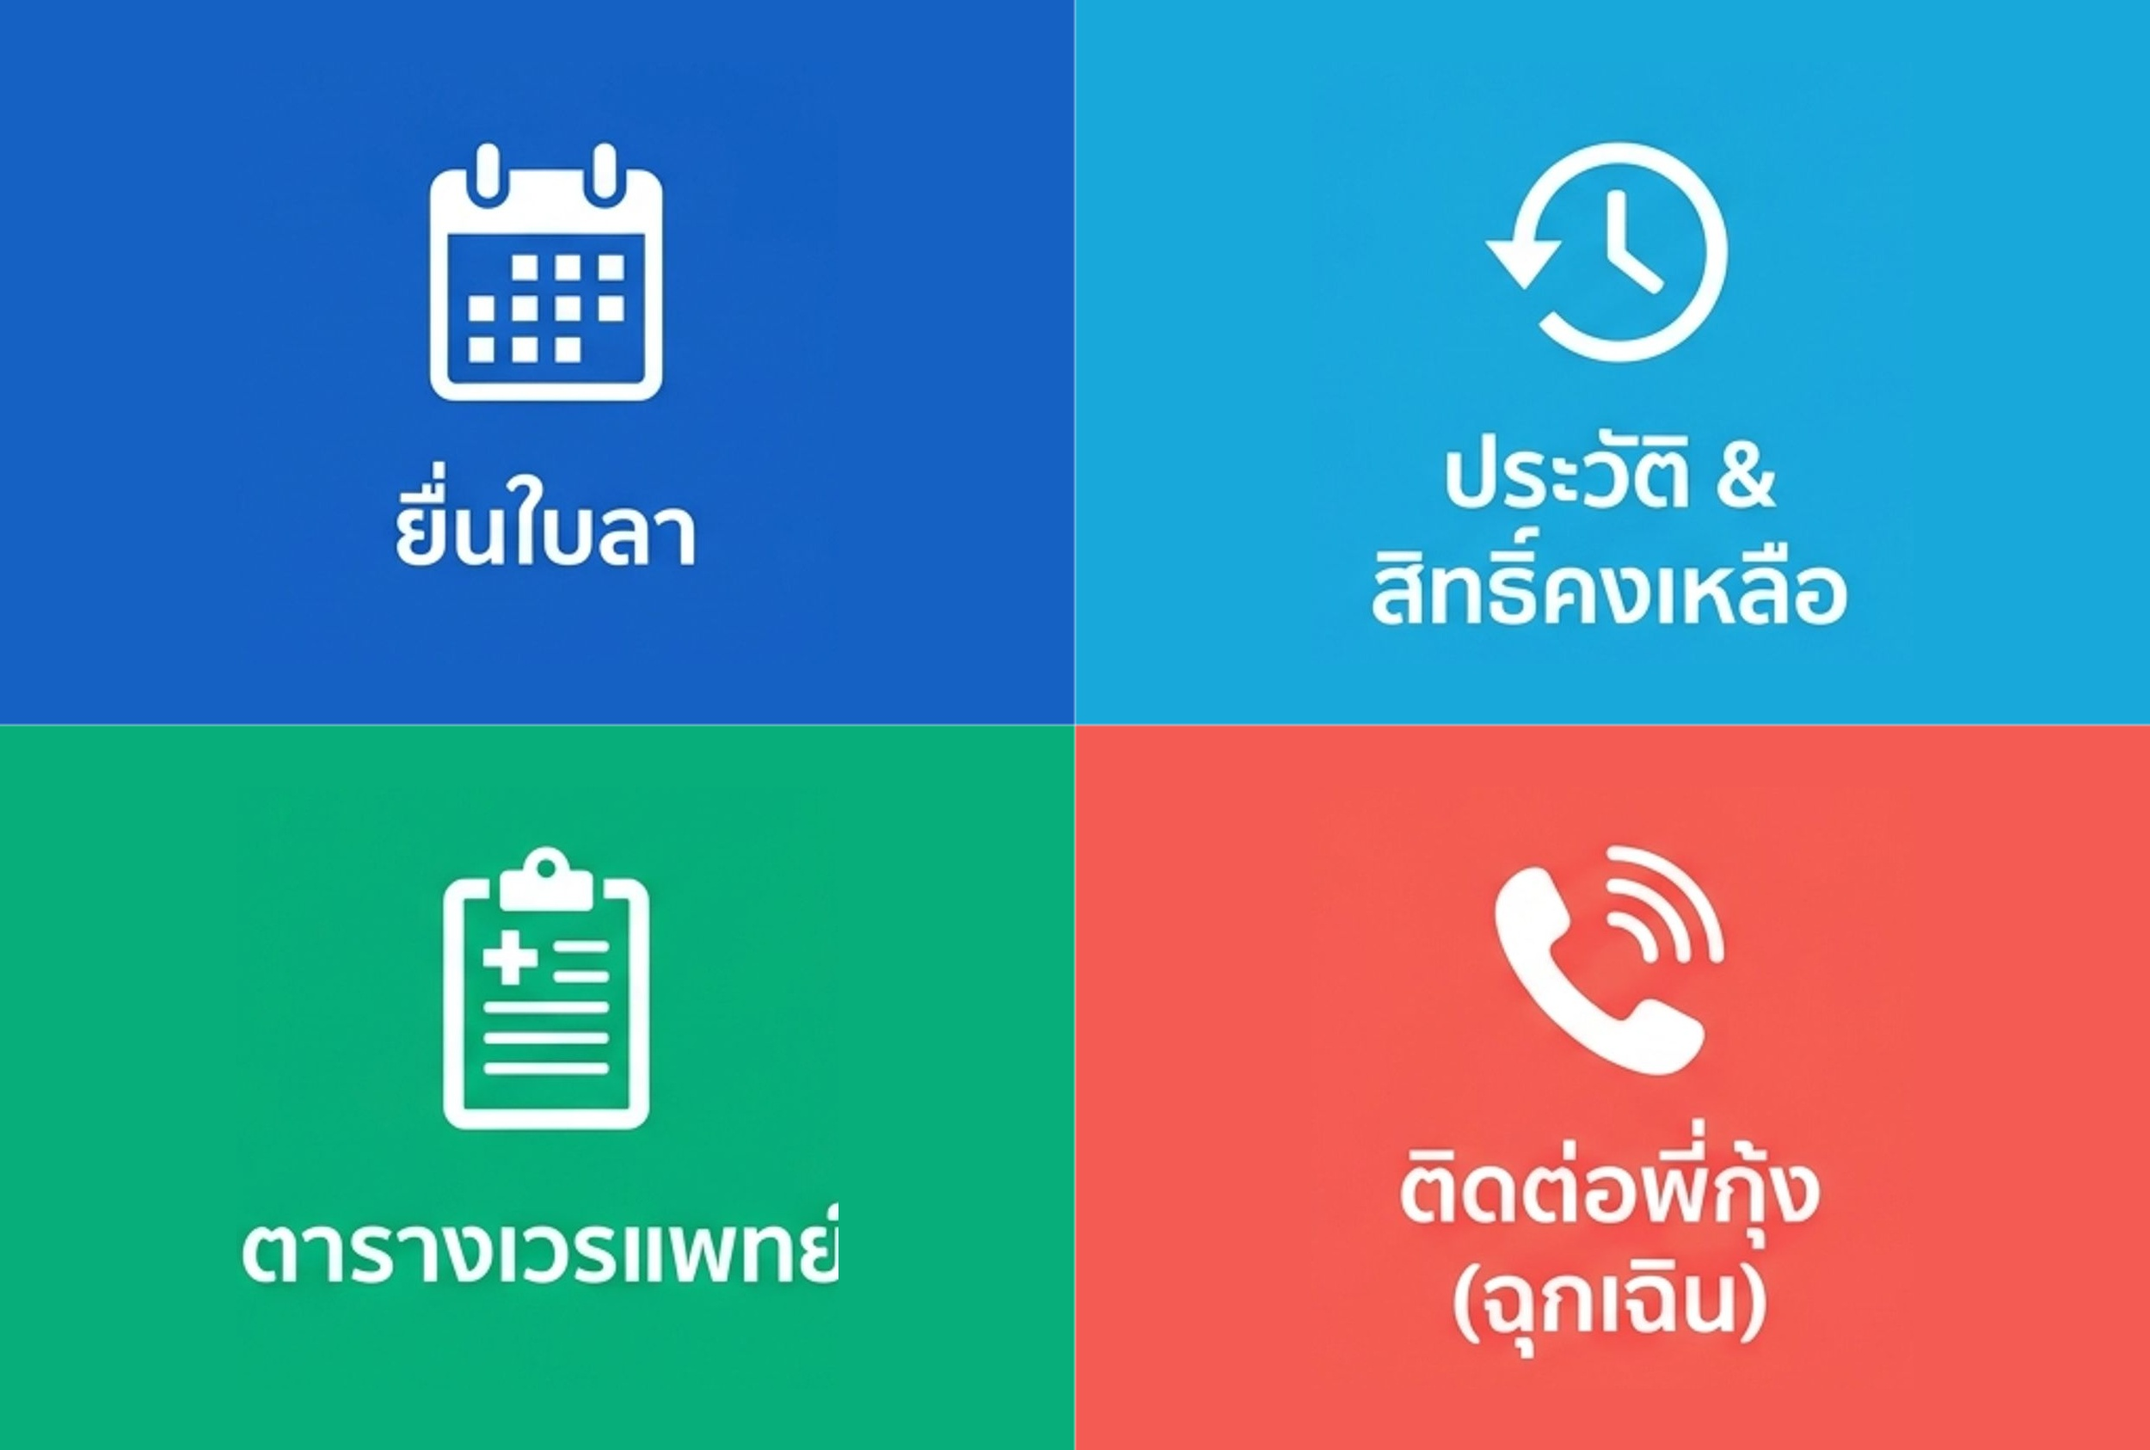
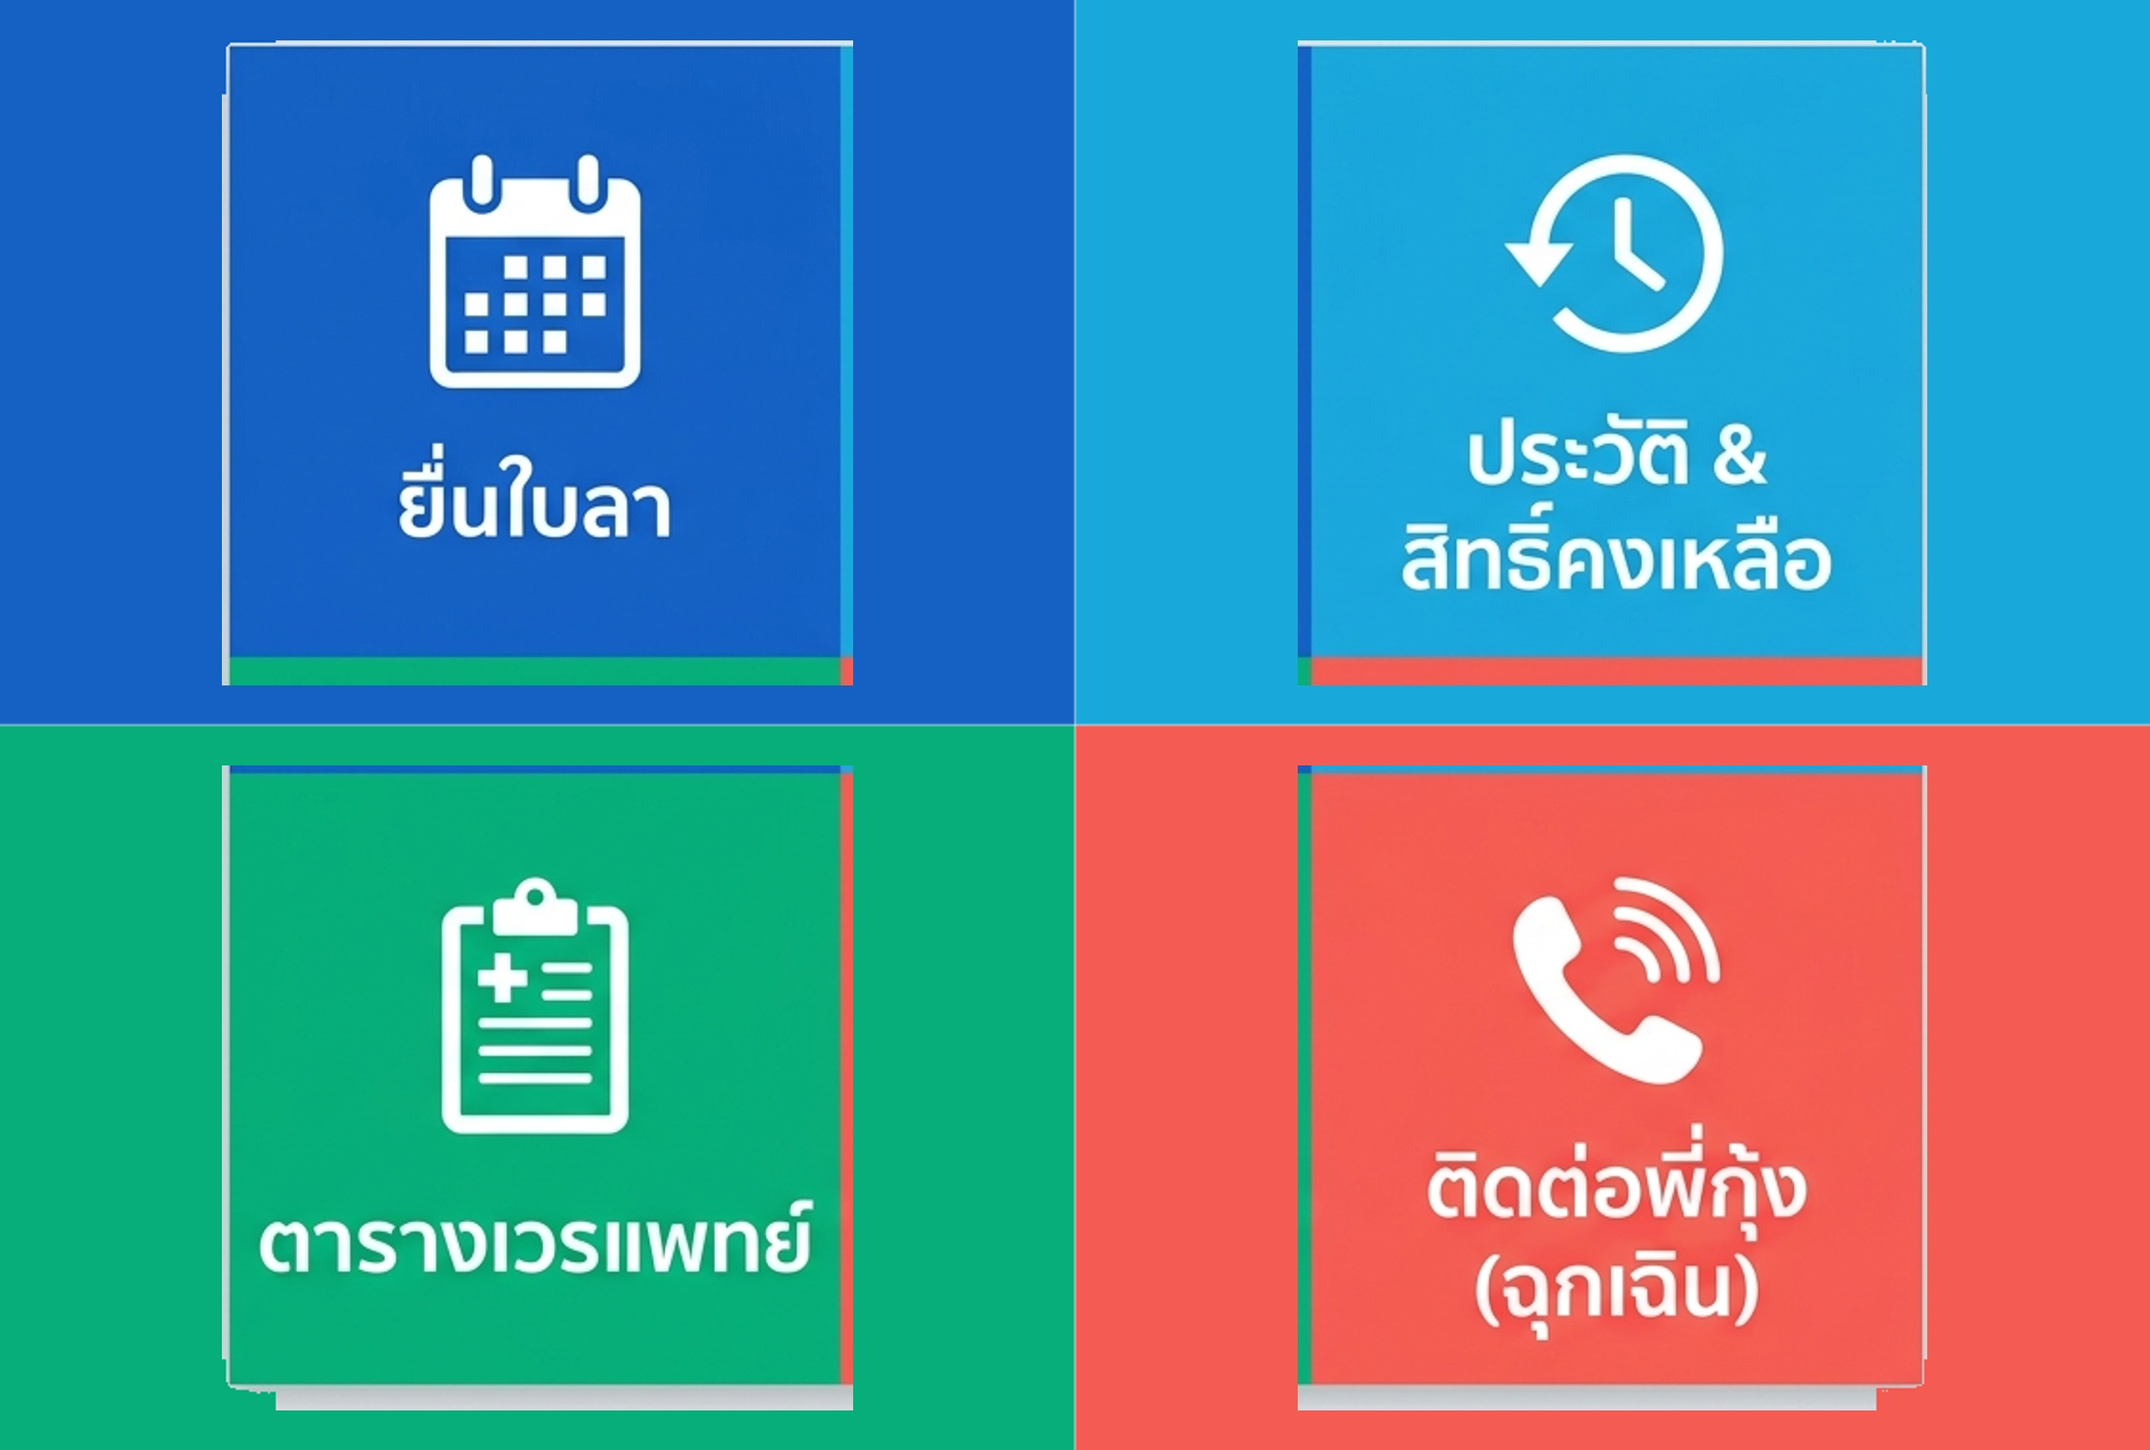
fix(liff): fix routing bounce to leave page and restore truncated 'ย์' in shift menu

diff --git a/scripts/build_full_bleed_richmenu.js b/scripts/build_full_bleed_richmenu.js
@@ -14,59 +14,76 @@ async function buildFullBleedOldStyle() {
   const HALF_W = 1250;
   const HALF_H = 843;
 
-  // In each card in src, inner content is within ~20px inset from edges:
-  // Q1: left: 325, top: 121, width: 286, height: 288
-  // Q2: left: 651, top: 121, width: 285, height: 288
-  // Q3: left: 325, top: 449, width: 286, height: 288
-  // Q4: left: 651, top: 449, width: 285, height: 288
+  // Exact coordinates of the 4 full cards (preserving all text, including 'ย์' in ตารางเวรแพทย์):
+  // Q1 Blue: 308, 101, 331, 338
+  // Q2 Cyan: 625, 101, 330, 338
+  // Q3 Green: 308, 420, 331, 338
+  // Q4 Red: 625, 420, 330, 338
 
-  // We resize the content to 700x700 with Lanczos3
-  const targetSize = 700;
+  async function extractAndClean(rect, bgColor, outerCorner) {
+    const { data, info } = await sharp(src)
+      .extract(rect)
+      .raw()
+      .toBuffer({ resolveWithObject: true });
 
-  const q1Content = await sharp(src)
-    .extract({ left: 325, top: 121, width: 286, height: 288 })
-    .resize(targetSize, targetSize, { kernel: 'lanczos3' })
-    .toBuffer();
+    // Clean outer corners of gray pixels without touching any text or icons
+    for (let y = 0; y < info.height; y++) {
+      for (let x = 0; x < info.width; x++) {
+        const isNearOuterCorner = 
+          (outerCorner === 'top-left' && x < 28 && y < 28) ||
+          (outerCorner === 'top-right' && x > info.width - 28 && y < 28) ||
+          (outerCorner === 'bottom-left' && x < 28 && y > info.height - 28) ||
+          (outerCorner === 'bottom-right' && x > info.width - 28 && y > info.height - 28);
 
-  const q2Content = await sharp(src)
-    .extract({ left: 651, top: 121, width: 285, height: 288 })
-    .resize(targetSize, targetSize, { kernel: 'lanczos3' })
-    .toBuffer();
+        if (isNearOuterCorner) {
+          const idx = (y * info.width + x) * 3;
+          const r = data[idx], g = data[idx + 1], b = data[idx + 2];
+          const isGray = (Math.abs(r - g) < 22 && Math.abs(g - b) < 22 && Math.abs(r - b) < 22 && r > 190);
+          if (isGray) {
+            data[idx] = bgColor.r;
+            data[idx + 1] = bgColor.g;
+            data[idx + 2] = bgColor.b;
+          }
+        }
+      }
+    }
 
-  const q3Content = await sharp(src)
-    .extract({ left: 325, top: 449, width: 286, height: 288 })
-    .resize(targetSize, targetSize, { kernel: 'lanczos3' })
-    .toBuffer();
+    // Resize cleanly to fit proportionally in 1250 x 843
+    // Target height ~740px (width will be ~725px), giving generous padding and 0 cutoff
+    return await sharp(data, { raw: info })
+      .resize({ height: 750, fit: 'contain', kernel: 'lanczos3' })
+      .toBuffer({ resolveWithObject: true });
+  }
 
-  const q4Content = await sharp(src)
-    .extract({ left: 651, top: 449, width: 285, height: 288 })
-    .resize(targetSize, targetSize, { kernel: 'lanczos3' })
-    .toBuffer();
+  const q1 = await extractAndClean({ left: 308, top: 101, width: 331, height: 338 }, { r: 21, g: 97, b: 195 }, 'top-left');
+  const q2 = await extractAndClean({ left: 625, top: 101, width: 330, height: 338 }, { r: 24, g: 168, b: 218 }, 'top-right');
+  const q3 = await extractAndClean({ left: 308, top: 420, width: 331, height: 338 }, { r: 7, g: 174, b: 122 }, 'bottom-left');
+  const q4 = await extractAndClean({ left: 625, top: 420, width: 330, height: 338 }, { r: 244, g: 91, b: 83 }, 'bottom-right');
 
   // Create solid background quadrants matching the exact RGB colors
   const q1Bg = await sharp({ create: { width: HALF_W, height: HALF_H, channels: 3, background: { r: 21, g: 97, b: 195 } } })
-    .composite([{ input: q1Content, top: Math.round((HALF_H - targetSize) / 2), left: Math.round((HALF_W - targetSize) / 2) }])
+    .composite([{ input: q1.data, raw: q1.info, top: Math.round((HALF_H - q1.info.height) / 2), left: Math.round((HALF_W - q1.info.width) / 2) }])
     .png()
     .toBuffer();
 
   const q2Bg = await sharp({ create: { width: HALF_W, height: HALF_H, channels: 3, background: { r: 24, g: 168, b: 218 } } })
-    .composite([{ input: q2Content, top: Math.round((HALF_H - targetSize) / 2), left: Math.round((HALF_W - targetSize) / 2) }])
+    .composite([{ input: q2.data, raw: q2.info, top: Math.round((HALF_H - q2.info.height) / 2), left: Math.round((HALF_W - q2.info.width) / 2) }])
     .png()
     .toBuffer();
 
   const q3Bg = await sharp({ create: { width: HALF_W, height: HALF_H, channels: 3, background: { r: 7, g: 174, b: 122 } } })
-    .composite([{ input: q3Content, top: Math.round((HALF_H - targetSize) / 2), left: Math.round((HALF_W - targetSize) / 2) }])
+    .composite([{ input: q3.data, raw: q3.info, top: Math.round((HALF_H - q3.info.height) / 2), left: Math.round((HALF_W - q3.info.width) / 2) }])
     .png()
     .toBuffer();
 
   const q4Bg = await sharp({ create: { width: HALF_W, height: HALF_H, channels: 3, background: { r: 244, g: 91, b: 83 } } })
-    .composite([{ input: q4Content, top: Math.round((HALF_H - targetSize) / 2), left: Math.round((HALF_W - targetSize) / 2) }])
+    .composite([{ input: q4.data, raw: q4.info, top: Math.round((HALF_H - q4.info.height) / 2), left: Math.round((HALF_W - q4.info.width) / 2) }])
     .png()
     .toBuffer();
 
   const dividerSvg = `<svg width="2500" height="1686" xmlns="http://www.w3.org/2000/svg">
-    <line x1="1250" y1="0" x2="1250" y2="1686" stroke="white" stroke-width="3" stroke-opacity="0.3" />
-    <line x1="0" y1="843" x2="2500" y2="843" stroke="white" stroke-width="3" stroke-opacity="0.3" />
+    <line x1="1250" y1="0" x2="1250" y2="1686" stroke="white" stroke-width="3" stroke-opacity="0.35" />
+    <line x1="0" y1="843" x2="2500" y2="843" stroke="white" stroke-width="3" stroke-opacity="0.35" />
   </svg>`;
 
   // Master Composite
@@ -82,7 +99,7 @@ async function buildFullBleedOldStyle() {
     .jpeg({ quality: 95 })
     .toFile(outputPath);
 
-  console.log(`✅ Successfully generated full-bleed rich menu with old aesthetic: ${outputPath}`);
+  console.log(`✅ Successfully generated full-bleed rich menu with old aesthetic (Full text & intact 'ย์'): ${outputPath}`);
 }
 
 buildFullBleedOldStyle().catch(console.error);

diff --git a/scripts/generate_cover_image.js b/scripts/generate_cover_image.js
@@ -1,0 +1,110 @@
+import sharp from 'sharp';
+import fs from 'fs';
+import path from 'path';
+import { fileURLToPath } from 'url';
+
+const __filename = fileURLToPath(import.meta.url);
+const __dirname = path.dirname(__filename);
+const rootDir = path.join(__dirname, '..');
+
+const WIDTH = 1200;
+const HEIGHT = 750;
+
+async function generateCover() {
+  console.log(`🎨 Rendering Official BSI LINE Profile Cover (${WIDTH}x${HEIGHT}px)...`);
+  const destPath = path.join(rootDir, 'public', 'bsi_cover.png');
+  const svgPath = path.join(rootDir, 'public', 'official_bsi_logo.svg');
+
+  // 1. Render official SVG logo at width 420px
+  const svgBuffer = fs.readFileSync(svgPath);
+  const logoPng = await sharp(svgBuffer)
+    .resize(420)
+    .png()
+    .toBuffer();
+
+  const logoMeta = await sharp(logoPng).metadata();
+
+  // 2. Base SVG with Hospital Gradient, Medical Cross patterns, and Corporate Aesthetics
+  const bgSvg = `
+  <svg width="${WIDTH}" height="${HEIGHT}" viewBox="0 0 ${WIDTH} ${HEIGHT}" xmlns="http://www.w3.org/2000/svg">
+    <defs>
+      <linearGradient id="bg-grad" x1="0%" y1="0%" x2="100%" y2="100%">
+        <stop offset="0%" stop-color="#001845" />
+        <stop offset="50%" stop-color="#002d74" />
+        <stop offset="100%" stop-color="#004b93" />
+      </linearGradient>
+
+      <linearGradient id="accent-grad" x1="0%" y1="0%" x2="100%" y2="0%">
+        <stop offset="0%" stop-color="#b12028" />
+        <stop offset="100%" stop-color="#ef4444" />
+      </linearGradient>
+
+      <pattern id="grid" width="40" height="40" patternUnits="userSpaceOnUse">
+        <path d="M 40 0 L 0 0 0 40" fill="none" stroke="white" stroke-width="0.75" stroke-opacity="0.05"/>
+      </pattern>
+
+      <filter id="card-shadow" x="-10%" y="-10%" width="120%" height="120%">
+        <feDropShadow dx="0" dy="16" stdDeviation="24" flood-color="#000" flood-opacity="0.25" />
+      </filter>
+    </defs>
+
+    <!-- Background Gradient -->
+    <rect width="${WIDTH}" height="${HEIGHT}" fill="url(#bg-grad)" />
+    <!-- Grid Overlay -->
+    <rect width="${WIDTH}" height="${HEIGHT}" fill="url(#grid)" />
+
+    <!-- Abstract Medical Glow Rings -->
+    <circle cx="1100" cy="100" r="350" fill="none" stroke="#38bdf8" stroke-width="1.5" stroke-opacity="0.12" />
+    <circle cx="1100" cy="100" r="220" fill="none" stroke="#38bdf8" stroke-width="1" stroke-opacity="0.15" />
+    <circle cx="100" cy="650" r="300" fill="none" stroke="#ffffff" stroke-width="1.5" stroke-opacity="0.06" />
+
+    <!-- Accent Color Stripe at Top -->
+    <rect x="0" y="0" width="${WIDTH}" height="6" fill="url(#accent-grad)" />
+
+    <!-- Center Card Base for Logo -->
+    <g transform="translate(600, 290)" filter="url(#card-shadow)">
+      <rect x="-260" y="-100" width="520" height="200" rx="24" fill="#ffffff" stroke="#e2e8f0" stroke-width="2" />
+    </g>
+
+    <!-- Typography: Title & Subtitle below card -->
+    <text x="600" y="470" text-anchor="middle" font-family="'Sarabun', 'Arial', sans-serif" font-size="34" font-weight="bold" fill="#ffffff" letter-spacing="1">
+      ระบบบริหารการลาแพทย์ (Doctor Leave System)
+    </text>
+    <text x="600" y="520" text-anchor="middle" font-family="'Sarabun', 'Noto Sans Thai', sans-serif" font-size="22" font-weight="500" fill="#93c5fd" letter-spacing="0.5">
+      โรงพยาบาลกรุงเทพศิริโรจน์ • Bangkok Hospital Siriroj
+    </text>
+
+    <!-- Bottom Badges -->
+    <g transform="translate(600, 590)">
+      <rect x="-210" y="-20" width="420" height="40" rx="20" fill="#ffffff" fill-opacity="0.1" stroke="#ffffff" stroke-width="1" stroke-opacity="0.2" />
+      <text x="0" y="7" text-anchor="middle" font-family="'Sarabun', 'Arial', sans-serif" font-size="16" font-weight="600" fill="#e0f2fe" letter-spacing="1.5">
+        BDMS NETWORK • PHUKET, THAILAND
+      </text>
+    </g>
+  </svg>
+  `;
+
+  // 3. Composite everything cleanly
+  await sharp({
+    create: {
+      width: WIDTH,
+      height: HEIGHT,
+      channels: 4,
+      background: { r: 0, g: 45, b: 116, alpha: 1 }
+    }
+  })
+  .composite([
+    { input: Buffer.from(bgSvg), left: 0, top: 0 },
+    {
+      input: logoPng,
+      left: Math.round((WIDTH - logoMeta.width) / 2),
+      top: 290 - Math.round(logoMeta.height / 2)
+    }
+  ])
+  .png()
+  .toFile(destPath);
+
+  console.log(`✅ Cover image successfully generated at: ${destPath}`);
+}
+
+generateCover().catch(console.error);

diff --git a/src/App.jsx b/src/App.jsx
@@ -1,5 +1,5 @@
 import React from 'react';
-import { BrowserRouter, Routes, Route, Navigate } from 'react-router-dom';
+import { BrowserRouter, Routes, Route, Navigate, useNavigate, useLocation } from 'react-router-dom';
 import { AuthProvider, useAuth } from './context/AuthContext';
 import Navbar from './components/Navbar';
 import DoctorLiffPage from './pages/DoctorLiffPage';
@@ -14,6 +14,36 @@ import AdminMasterDataPage from './pages/AdminMasterDataPage';
 import AdminShiftsPage from './pages/AdminShiftsPage';
 import ProtectedRoute from './components/ProtectedRoute';
 import OnboardingPage from './pages/OnboardingPage';
+
+// Intercepts LINE LIFF subpath/query routing (?liff.state=... or ?route=...)
+function LiffRedirectHandler() {
+  const navigate = useNavigate();
+  const location = useLocation();
+
+  useEffect(() => {
+    try {
+      const searchParams = new URLSearchParams(window.location.search);
+      const liffState = searchParams.get('liff.state');
+      const routeParam = searchParams.get('route') || searchParams.get('path');
+      
+      let targetPath = null;
+      if (liffState) {
+        targetPath = decodeURIComponent(liffState);
+      } else if (routeParam) {
+        targetPath = decodeURIComponent(routeParam);
+      }
+
+      if (targetPath && targetPath !== location.pathname) {
+        console.log(`[LIFF Navigation] Redirecting to target path: ${targetPath}`);
+        navigate(targetPath, { replace: true });
+      }
+    } catch (e) {
+      console.warn('[LIFF Navigation Error]', e);
+    }
+  }, [location.pathname, navigate]);
+
+  return null;
+}
 
 export default function App() {
   return (
@@ -32,17 +62,18 @@ function AppContent() {
 
   return (
       <BrowserRouter>
+        <LiffRedirectHandler />
         <div className="min-h-screen flex flex-col bg-slate-100">
           <Navbar />
           <main className="flex-1 pb-12">
             <Routes>
               <Route path="/" element={
-                <ProtectedRoute allowedRoles={['DOCTOR', 'MEDICAL_ADMIN']}>
+                <ProtectedRoute allowedRoles={['DOCTOR', 'MEDICAL_ADMIN', 'ADMIN', 'APPROVER', 'DEPT_HEAD']}>
                   <DoctorLiffPage />
                 </ProtectedRoute>
               } />
               <Route path="/my-history" element={
-                <ProtectedRoute allowedRoles={['DOCTOR']}>
+                <ProtectedRoute allowedRoles={['DOCTOR', 'MEDICAL_ADMIN', 'ADMIN', 'APPROVER', 'DEPT_HEAD']}>
                   <DoctorHistoryPage />
                 </ProtectedRoute>
               } />

diff --git a/src/components/ProtectedRoute.jsx b/src/components/ProtectedRoute.jsx
@@ -3,18 +3,28 @@ import { Navigate } from 'react-router-dom';
 import { useAuth } from '../context/AuthContext';
 
 export default function ProtectedRoute({ children, allowedRoles }) {
-  const { currentDoctor } = useAuth();
+  const { currentDoctor, loading } = useAuth();
+
+  if (loading) {
+    return (
+      <div className="min-h-[60vh] flex flex-col items-center justify-center p-6 text-center">
+        <div className="w-10 h-10 border-4 border-[#002d74] border-t-transparent rounded-full animate-spin mb-3" />
+        <p className="text-slate-600 font-medium text-sm">กำลังโหลดข้อมูลระบบ...</p>
+      </div>
+    );
+  }
 
   if (!currentDoctor) {
     return <Navigate to="/" replace />;
   }
 
-  const hasRole = allowedRoles.some(role => currentDoctor.roles.includes(role));
+  const userRoles = currentDoctor.roles || [];
+  const hasRole = !allowedRoles || allowedRoles.length === 0 || allowedRoles.some(role => userRoles.includes(role));
 
   if (!hasRole) {
-    // If not allowed, redirect to a default safe page based on their role
-    if (currentDoctor.roles.includes('ADMIN') || currentDoctor.roles.includes('MEDICAL_ADMIN')) {
-      return <Navigate to="/admin" replace />;
+    // If user is medical admin, allow viewing all doctor pages or fallback safely
+    if (userRoles.includes('ADMIN') || userRoles.includes('MEDICAL_ADMIN')) {
+      return children; // Admins can view all pages
     }
     return <Navigate to="/" replace />;
   }

diff --git a/scripts/setup_richmenu.js b/scripts/setup_richmenu.js
@@ -19,7 +19,7 @@ const rootDir = path.join(__dirname, '..');
 dotenv.config({ path: path.join(rootDir, '.env') });
 
 const TOKEN = process.env.LINE_CHANNEL_ACCESS_TOKEN;
-const LIFF_ID = process.env.VITE_LIFF_ID || '1234567890-abcdefgh';
+const LIFF_ID = process.env.VITE_LIFF_ID || process.env.LIFF_ID || '2011832574-WtcSrDre';
 const IMAGE_PATH = path.join(rootDir, 'public', 'richmenu.jpg');
 const CONFIG_PATH = path.join(__dirname, 'line_richmenu.json');
 
